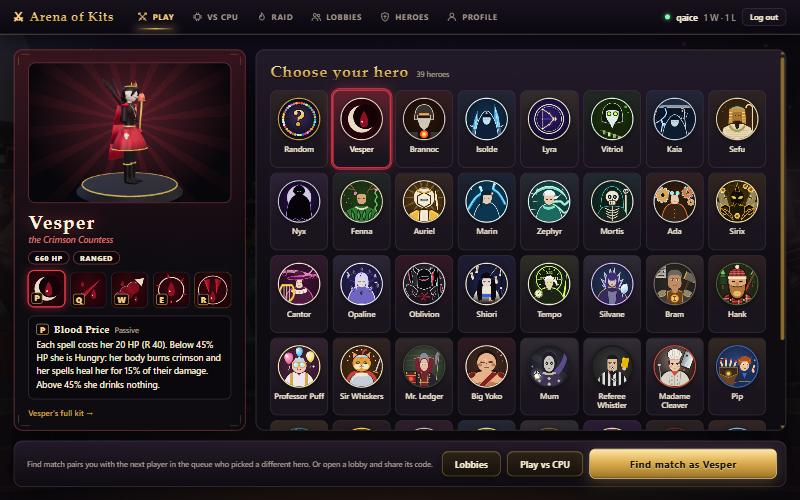
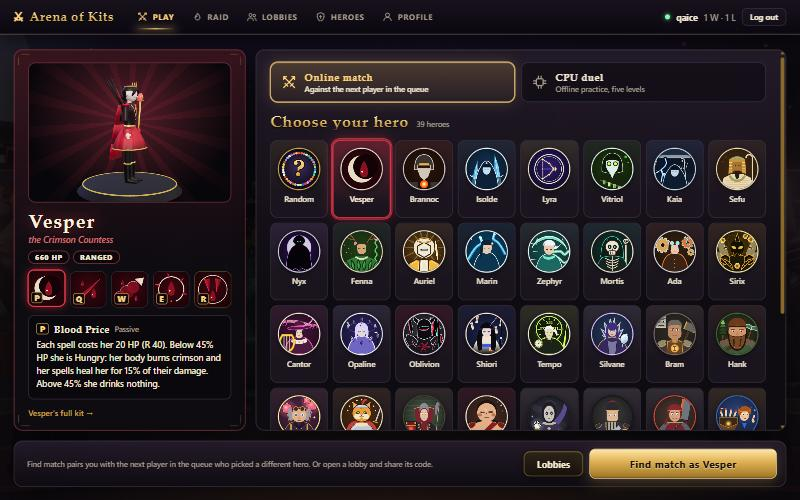
Play: the CPU duel is a mode of the Play screen
Two tabs over the roster, Online match and CPU duel. The CPU tab shows
the difficulty and the opponent over the hero grid and the bar's button
becomes Fight. The vs CPU tab leaves the header. Without an account the
same screen opens with only the CPU tab; the online tab leads to login.

diff --git a/src/game/main.ts b/src/game/main.ts
@@ -189,6 +189,12 @@ function render() {
   const kept = new Map<string, number>();
   if (state.screen === shownScreen) root.querySelectorAll<HTMLElement>('[data-keep-scroll]').forEach((e) => kept.set(e.dataset.keepScroll!, e.scrollTop));
   root.replaceChildren();
+  // With an account the CPU duel is a mode of the Play screen (a finished CPU fight comes back here as 'cpu').
+  if (state.profile && state.screen === 'cpu') {
+    state.screen = 'menu';
+    playMode = 'cpu';
+    safeSet('play.mode', 'cpu');
+  }
   // A screen that was not on show a moment ago comes in with a short rise (`.screen.enter`); a redraw does not.
   const fresh = state.screen !== shownScreen;
   if (fresh) {
@@ -201,7 +207,7 @@ function render() {
   // Without an account: the login screen, or the CPU or Raid screen (an offline fight needs no account).
   if (!state.profile) {
     if (state.screen !== 'cpu' && state.screen !== 'raid') { root.append(loginScreen()); return; }
-    root.append(header(), el('main', { class: `screen wide${fresh ? ' enter' : ''}` }, state.screen === 'cpu' ? cpuScreen() : raidScreen()));
+    root.append(header(), el('main', { class: `screen wide${fresh ? ' enter' : ''}` }, state.screen === 'cpu' ? menuScreen() : raidScreen()));
     keepScroll();
     return;
   }
@@ -213,9 +219,8 @@ function render() {
       : s === 'profile' ? profileScreen(state.profile)
         : s === 'lobbies' ? lobbiesScreen()
           : s === 'lobby' && state.lobby ? lobbyScreen(state.lobby)
-            : s === 'cpu' ? cpuScreen()
-              : s === 'raid' ? raidScreen()
-                : menuScreen(),
+            : s === 'raid' ? raidScreen()
+              : menuScreen(),
   );
   root.append(body);
   // The Play screen (also shown for a lobby that has closed) is wider, and shows the search in its own bar.
@@ -243,12 +248,12 @@ function header() {
   if (!p) {
     return el('header', { class: 'top' },
       el('div', { class: 'brand', onclick: () => go('login') }, el('span', { class: 'sigil' }, '⚔'), 'Arena of Kits'),
-      el('nav', {}, nav('vs CPU', 'cpu', 'cpu'), nav('Raid', 'raid', 'raid')),
+      el('nav', {}, nav('Play', 'cpu', 'play'), nav('Raid', 'raid', 'raid')),
       el('div', { class: 'who' }, el('button', { class: 'btn small', onclick: () => go('login') }, icon('login'), 'Log in')));
   }
   return el('header', { class: 'top' },
     el('div', { class: 'brand', onclick: () => go('menu') }, el('span', { class: 'sigil' }, '⚔'), 'Arena of Kits'),
-    el('nav', {}, nav('Play', 'menu', 'play'), nav('vs CPU', 'cpu', 'cpu'), nav('Raid', 'raid', 'raid'), nav('Lobbies', state.lobby ? 'lobby' : 'lobbies', 'lobbies'), nav('Heroes', 'heroes', 'heroes'), nav('Profile', 'profile', 'profile')),
+    el('nav', {}, nav('Play', 'menu', 'play'), nav('Raid', 'raid', 'raid'), nav('Lobbies', state.lobby ? 'lobby' : 'lobbies', 'lobbies'), nav('Heroes', 'heroes', 'heroes'), nav('Profile', 'profile', 'profile')),
     el('div', { class: 'who' },
       el('span', { class: `dot${state.connected ? ' on' : ''}`, title: state.connected ? 'connected' : 'offline' }),
       el('b', {}, p.name),
@@ -297,22 +302,46 @@ function heroStrip() {
 
 // --- menu / play ---------------------------------------------------------------------------------------------
 
+/** The Play screen's two ways to fight: a match against a player, or an offline duel against the computer. */
+type PlayMode = 'online' | 'cpu';
+let playMode: PlayMode = safeGet('play.mode') === 'cpu' ? 'cpu' : 'online';
+
 /**
  * Play: a hero select. The chosen hero on the left (its turning model, HP, melee or ranged, the passive and Q W E R),
- * the roster on the right, and one bar along the bottom with Find match, Lobbies and Play vs CPU (user, 2026-11-09:
- * "can u remade this so it will be better"). The record lives on the Profile screen and in the header.
+ * the choices on the right, and one bar along the bottom with the button that starts the fight (user, 2026-11-09:
+ * "can u remade this so it will be better"). Two modes share it, picked by the two big tabs over the roster: an online
+ * match, or a duel against the CPU with its level and opponent (user, 2026-11-10: "lets move the cpu page into play").
+ * Without an account only the CPU duel is open, and the online tab leads to the login.
  */
 function menuScreen() {
-  const choice = heroChoice(), hero = kitOf(choice);
+  const guest = !state.profile;
+  // A search or a lobby would take the scene over: while one is on, the online side is the one in use.
+  const busy = state.queue.on || !!state.lobby;
+  const mode: PlayMode = guest ? 'cpu' : busy ? 'online' : playMode;
+  const choice = cpuChoice(), hero = kitOf(choice);
   preview.show(hero?.model);
+  const tab = (m: PlayMode, ic: keyof typeof ICONS, title: string, sub: string) => el('button', {
+    class: `mode${mode === m ? ' on' : ''}`, disabled: m === 'cpu' && busy, title: m === 'cpu' && busy ? 'Leave the queue or your lobby first' : '',
+    onclick: () => {
+      if (m === 'online' && guest) return go('login');
+      if (m === mode) return;
+      playMode = m;
+      safeSet('play.mode', m);
+      render();
+    },
+  }, icon(ic), el('span', {}, el('b', {}, title), el('small', {}, sub)));
   return el('div', { class: 'hs' },
     heroShowcase(hero),
     el('section', { class: 'card hs-roster', 'data-keep-scroll': 'roster' },
+      el('div', { class: 'modes' },
+        tab('online', 'play', 'Online match', guest ? 'Log in to fight a real player' : 'Against the next player in the queue'),
+        tab('cpu', 'cpu', 'CPU duel', 'Offline practice, five levels')),
+      mode === 'cpu' ? cpuOptions(choice) : null,
       el('div', { class: 'hs-roster-head' }, el('h2', {}, 'Choose your hero'), el('span', { class: 'muted small' }, `${kits.length} heroes`)),
-      heroPicker(choice, [], (n) => { setPreferredHero(n); render(); }),
+      heroPicker(choice, [], (n) => { setCpuHero(n); render(); }),
       howToFight(),
     ),
-    playBar(hero),
+    mode === 'cpu' ? cpuBar(hero, choice) : playBar(hero),
   );
 }
 
@@ -370,7 +399,7 @@ function heroShowcase(hero: HeroKit | undefined) {
   return card;
 }
 
-/** Along the bottom of the Play screen: Lobbies, Play vs CPU and Find match, or the search while queued. */
+/** Along the bottom of the Play screen in its online mode: Lobbies and Find match, or the search while queued. */
 function playBar(hero: HeroKit | undefined) {
   const queued = state.queue.on;
   const find = queued
@@ -391,7 +420,6 @@ function playBar(hero: HeroKit | undefined) {
       ? 'You are in a lobby: go back to it, or leave it to search.'
       : 'Find match pairs you with the next player in the queue who picked a different hero. Or open a lobby and share its code.'),
     el('button', { class: 'btn', disabled: queued, onclick: () => go(state.lobby ? 'lobby' : 'lobbies') }, state.lobby ? 'Back to lobby' : 'Lobbies'),
-    el('button', { class: 'btn', disabled: queued || !!state.lobby, onclick: () => go('cpu') }, 'Play vs CPU'),
     find);
   if (queued) updateQueueText(bar);
   return bar;
@@ -513,13 +541,14 @@ function setCpuHero(name: string) {
   else safeSet('cpu.hero', name);
 }
 
-function cpuScreen() {
-  const choice = cpuChoice(), hero = kitOf(choice);
+/** The opponent picked for a CPU duel, or undefined for a random one (also when it is the player's own hero). */
+const cpuFoe = (choice: string) => (cpuPick.foe !== choice ? kitOf(cpuPick.foe) : undefined);
+
+/** The Play screen's CPU mode, over the roster: the five levels and the opponent. */
+function cpuOptions(choice: string) {
   const level = cpuLevel(cpuPick.level);
-  const foeKit = cpuPick.foe !== choice ? kitOf(cpuPick.foe) : undefined;
+  const foeKit = cpuFoe(choice);
   const won = cpuWon();
-  // A match from the queue or a lobby would take the scene over: those come first.
-  const busy = state.queue.on || !!state.lobby;
   const levels = el('div', { class: 'levels' }, ...CPU_LEVELS.map((l) => el('button', {
     class: `level lv-${l.id}${l.id === level.id ? ' on' : ''}`, title: l.blurb,
     onclick: () => { cpuPick.level = l.id; safeSet('cpu.level', String(l.id)); render(); },
@@ -530,31 +559,28 @@ function cpuScreen() {
   },
   el('option', { value: 'random', selected: !foeKit }, 'A random hero'),
   ...kits.filter((k) => k.name !== choice).map((k) => el('option', { value: k.name, selected: k === foeKit }, `${k.name}, ${k.title}`)));
-  preview.show(hero?.model);
-  // The same hero select as Play: the chosen hero on the left, the choices on the right, the fight button along the bottom.
-  return el('div', { class: 'hs' },
-    heroShowcase(hero),
-    el('section', { class: 'card hs-roster', 'data-keep-scroll': 'cpu' },
-      el('div', { class: 'hs-roster-head' }, el('h2', {}, 'Play vs CPU'), el('span', { class: 'muted small' }, 'Offline · a random arena · not on your record')),
-      el('h3', { class: 'gap' }, 'Difficulty'),
+  return el('div', { class: 'cpu-opts' },
+    el('div', {},
+      el('h3', {}, 'Difficulty'),
       levels,
-      el('p', { class: 'level-blurb' }, el('b', {}, `${level.name}: `), level.blurb),
+      el('p', { class: 'level-blurb muted small' }, el('b', {}, `${level.name}: `), level.blurb)),
+    el('div', {},
       el('h3', {}, 'Opponent'),
       el('div', { class: 'foe-row' }, foeKit ? portrait(foeKit, 'portrait sm') : randomPortrait('portrait sm'), foeSelect),
-      el('h3', { class: 'gap' }, 'Your hero'),
-      heroPicker(choice, [], (n) => { setCpuHero(n); render(); }),
-      howToFight(),
-    ),
-    el('div', { class: 'hs-bar' },
-      el('div', { class: `hs-note small ${busy ? 'error' : 'muted'}` }, busy
-        ? 'Leave the matchmaking queue or your lobby to fight the CPU.'
-        : `${hero ? hero.name : 'A random hero'} against ${foeKit ? foeKit.name : 'a random hero'}, best of three.`),
-      el('button', { class: 'btn', onclick: () => go(state.profile ? 'menu' : 'login') }, 'Back'),
-      el('button', {
-        class: 'btn primary big hs-find', disabled: busy,
-        onclick: () => void cpu.start({ hero: hero?.name ?? randomKit([foeKit?.name]).name, foe: foeKit?.name ?? 'random', level: level.id }),
-      }, `Fight ${foeKit ? foeKit.name : 'a random hero'} · ${level.name}`)),
-  );
+      el('p', { class: 'level-blurb muted small' }, 'One round in a random arena. It does not count on your record.')));
+}
+
+/** Along the bottom of the Play screen in its CPU mode: the fight button (and the way to the login without an account). */
+function cpuBar(hero: HeroKit | undefined, choice: string) {
+  const level = cpuLevel(cpuPick.level);
+  const foeKit = cpuFoe(choice);
+  return el('div', { class: 'hs-bar' },
+    el('div', { class: 'hs-note small muted' }, `${hero ? hero.name : 'A random hero'} against ${foeKit ? foeKit.name : 'a random hero'} on ${level.name}.`),
+    state.profile ? null : el('button', { class: 'btn', onclick: () => go('login') }, icon('login'), 'Log in'),
+    el('button', {
+      class: 'btn primary big hs-find',
+      onclick: () => void cpu.start({ hero: hero?.name ?? randomKit([foeKit?.name]).name, foe: foeKit?.name ?? 'random', level: level.id }),
+    }, `Fight ${foeKit ? foeKit.name : 'a random hero'} · ${level.name}`));
 }
 
 // --- raid ----------------------------------------------------------------------------------------------------

diff --git a/src/game/game.css b/src/game/game.css
@@ -399,10 +399,40 @@
 .level.on { border-color: var(--lv); background: linear-gradient(180deg, color-mix(in srgb, var(--lv) 26%, var(--panel-2)), var(--panel-2)); box-shadow: 0 0 0 1px var(--lv), 0 0 18px color-mix(in srgb, var(--lv) 35%, transparent); }
 .level .pips { font-size: 9px; letter-spacing: 1px; color: var(--lv); }
 .level .won { margin-left: 3px; color: var(--green); }
-.level-blurb { margin: 8px 0 14px; min-height: 2.9em; }
+.level-blurb { margin: 8px 0 0; min-height: 2.9em; }
 .ui h3.gap { margin-top: 18px; }
 .foe-row { display: flex; align-items: center; gap: 12px; margin-top: 8px; }
 .foe-select { flex: 1; max-width: 380px; min-width: 0; }
+/* The Play screen's two modes: two big tabs over the roster, the open one lit in gold. */
+.modes { display: grid; grid-template-columns: 1fr 1fr; gap: 10px; margin-bottom: 16px; }
+.mode {
+  display: flex; align-items: center; gap: 12px; padding: 12px 16px; border-radius: 12px; cursor: pointer; text-align: left;
+  border: 1px solid var(--line); color: var(--muted); background: rgba(8, 6, 10, 0.5); font: 500 12px var(--sans);
+  transition: border-color 0.15s, transform 0.15s var(--ease), box-shadow 0.15s, color 0.15s;
+}
+.mode .ic svg { width: 26px; height: 26px; }
+.mode span { display: flex; flex-direction: column; min-width: 0; }
+.mode b { font: 700 16px var(--display); letter-spacing: 0.05em; color: var(--text); }
+.mode small { font-size: 12px; }
+.mode:hover:not(:disabled):not(.on) { border-color: var(--line-gold); transform: translateY(-1px); color: var(--text); }
+.mode.on {
+  border-color: var(--gold-hi); color: var(--text);
+  background: linear-gradient(180deg, rgba(201, 162, 74, 0.24), rgba(201, 162, 74, 0.05));
+  box-shadow: 0 0 0 1px var(--gold-hi), 0 0 22px rgba(255, 210, 122, 0.2), inset 0 1px 0 rgba(255, 228, 170, 0.18);
+}
+.mode.on b, .mode.on .ic { color: var(--gold-hi); }
+.mode:disabled { opacity: 0.4; cursor: not-allowed; }
+/* the CPU mode's choices, side by side over the roster: the levels, the opponent */
+.cpu-opts { display: grid; grid-template-columns: minmax(0, 1.5fr) minmax(0, 1fr); gap: 6px 22px; margin-bottom: 14px; padding: 12px 14px 4px; border-radius: 12px; border: 1px solid var(--line); background: rgba(8, 6, 10, 0.4); }
+@media (max-width: 1100px) { .cpu-opts { grid-template-columns: minmax(0, 1fr); } }
+@media (max-width: 600px) {
+  .modes { gap: 8px; margin-bottom: 12px; }
+  .mode { padding: 9px 10px; gap: 8px; }
+  .mode b { font-size: 14px; }
+  .mode small { font-size: 10.5px; line-height: 1.25; }
+  .mode .ic svg { width: 22px; height: 22px; }
+  .cpu-opts { padding: 10px 10px 2px; }
+}
 .or { display: flex; align-items: center; gap: 10px; color: var(--muted); font-size: 11px; font-weight: 700; letter-spacing: 0.12em; text-transform: uppercase; margin: 2px 0; }
 .or::before, .or::after { content: ''; flex: 1; height: 1px; background: linear-gradient(90deg, transparent, var(--line-gold)); }
 .or::after { background: linear-gradient(90deg, var(--line-gold), transparent); }

diff --git a/docs/STATUS.md b/docs/STATUS.md
@@ -61,6 +61,7 @@ said "uncommitted" now name the commit that holds them.
 - **Ash's six pillars and his one-shot Charge, 2026-11-08, committed, pushed and live 2026-11-09 (`7438db2`)** (user: "6 pillars noticeable from others, a charge attack that targets the player, the player goes behind the pillar, the boss gets stunned and there is a window to damage him, if he hits you it's a one-shot, so kill him before all pillars are down"). On Ash, whose Charge already stopped at cover. **The pillars:** the Cinder Pit's only cover now, six at 7.5 m from the vent (`PILLARS` in `src/arenas/cinderpit.ts`, drawn in code by `src/arenas/cinderPillars.ts`): basalt with veins and a crown of pale blue sun-glass, a glass ring on the floor round each; a pip each in the boss bar, red with one left. The old spires, slag walls and anvil stones are gone. **The Charge:** first 6 s in, then every 12 s Ash is in the ring, before any other move (`BossMove.due`). 3.5 s wind-up: he turns after the one he fixed on and rakes the floor; a lane runs from him through you to the rim, the pillar that would stop him lights up blue, and the floor the pillars hide shows gold. Then he runs through where you are then (aimed at that moment, so stepping aside doesn't help) and kills whoever he reaches (`Threat.lethal`: past every shield; only Sealed and Stubborn save). A pillar in his way breaks (it topples away and shatters) and he is stunned 5 s (`RAID_REWARDS.ash.charge = { stun: 5 }`, a new reward that kneels without emptying the gauge; hub `raidStun`). With no pillars left every Charge kills. **The autopilot:** a warning zone (`Threat.warn`) it never ignores, a wider and finer search for a hidden spot, and it stays hidden until the run passes. **Measured** (39 heroes twice, tier 1): level 3 21/78 (27 %, was 22 %), level 4 27/78 (35 %, was 45 %); about 3 Charges blocked a fight and 2.8 pillars standing at the end; the autopilot hides from 93 % of Charges, and most it doesn't were from 10 m or more from any hidden spot once pillars had broken. **So the pillars run out only in long fights, around the enrage at 2:50:** Ash is in the ring about half a fight. To make them the main clock: fewer pillars, a faster Charge, or Ash charging from the rim too (a bigger change: the one on the rim can't be hit). **Checked:** type check, build, server test (new: the stun on both screens, the gauge kept), `_raidAsh` 76 (new Charge rows: the wind-up hurts nobody, in the open it kills, in front of a pillar it kills, behind one it doesn't and the pillar breaks, he stops against it and kneels, a broken pillar saves nobody, a shield doesn't help, a new fight stands all six up), `_raidCheck` 95, `_raidUpgrades` 37. Pictures: `docs/bosses/charge-1` to `charge-3`, `charge-phone`. **Not checked:** a person playing, a real phone, two players online (the second screen breaks the same pillar from the cast; tested only alone).
 - **Ash's pillars cut to four, 2026-11-09, committed, pushed and live 2026-11-09 (`7438db2`)** (user, given the choice after six outlasted most fights: "Fewer pillars (4)"). Four pillars on the diagonals at 7.5 m (where the old spires stood), four pips in the bar. **First try, same timing (3.5 s wind-up, every 12 s):** level 3 10/78 (13 %), level 4 14/78 (18 %), 107 of 132 losses to the Charge. The logged Charges showed why: with pillars 90 degrees apart a hero near the rim with Ash beside them can be 12-17 m from any hidden spot, and 11 of 12 such Charges killed. Unfair, not hard. **So:** the wind-up is 4.5 s at tier 1 (about 15 m of running for a person after a moment to see it) and the Charge comes every 14 s he is in the ring (still 5 s stunned, so his other moves keep a slot). **Measured** (39 heroes twice, tier 1): level 3 13/78 (17 %), level 4 21/78 (27 %); about 2.5 Charges blocked a fight and 1.5 pillars standing at the end (2.8 with six), so a slower fight does run out. Harder than six pillars (27 % and 35 %) and than before the pillars (22 % and 45 %). **Checked:** type check, `_raidAsh` 77 (new: four pillars; the positions now come from the first pillar), `_raidCheck` 95, `_raidUpgrades` 37. Pictures redone: `docs/bosses/charge-1` to `charge-3`, `charge-phone`. **Not checked:** a person playing, a real phone, two players online.
 - **The Play screen remade as a hero select, 2026-11-09, committed (`f1bf868`, `755ce08`), pushed and live 2026-11-09** (user, with a screenshot of the old screen at 1920x1032: "can u remade this so it will be better"). `src/game/main.ts` (`menuScreen`, `heroShowcase`, `playBar`, `howToFight`), `src/game/game.css` (`.hs-*`). **Left:** the chosen hero on the Heroes page's turning model (the big portrait for Random), name, title, HP and melee or ranged (Pim and Pom: both), the passive and Q W E R as icons; pointing at one or tapping it explains it (range, cooldown), and the slot stays open from hero to hero; a link opens the Heroes page with that hero's row just under the header (checked at 1920 and on the phone, where the header is 134 px). **Right:** the roster. **Bottom:** one bar with Lobbies, Play vs CPU and Find match; while searching, the search and Cancel sit in that bar (no second bar over it; on the phone it wraps to two lines inside the bar). "How to fight" folds away and no longer says every hero has 600 HP. The stat tiles left the Play screen (they are on Profile; W-L is in the header). **On a desktop** it fits the window (checked at 1920x1032, 1600x900 and 1280x720: no page scroll; at 1280x720 the roster scrolls inside itself and keeps its place when a hero is picked). **Stacked** under 860 px with the bar pinned to the bottom; **on a phone** (375x812, touch emulated) a compact card, so the first row of heroes shows above the bar; the explanation is cut to three lines and a tap shows the rest. **Shared:** the hero grid now has even tiles everywhere it is used (vs CPU, Raid, a lobby, a lost round's pick), checked on vs CPU, Raid (all 40 tiles one size) and a lobby; a lost round's pick was not opened. `HeroPreview` now resizes on a height change too. Type check and build pass; no console errors. Not checked: a real phone, a person using it.
+- **The CPU duel moved into Play, 2026-11-10, committed, not pushed, not deployed** (user: "lets move the cpu page into play somewhere ttry to figure something out"). The Play screen has two tabs over the roster, Online match and CPU duel (`playMode`, kept in `localStorage` as `play.mode`); the CPU tab shows difficulty and opponent over the hero grid (`cpuOptions`) and the bar's button becomes Fight (`cpuBar`). The vs CPU tab is gone from the header and `cpuScreen` is deleted; `state.screen === 'cpu'` still exists for a player without an account (the same screen, CPU tab only, the online tab leads to the login) and as where a finished CPU fight returns (with an account it is turned into Play in CPU mode in `render`). **Checked** in the browser: a real click on the CPU tab, level and opponent change the button ("Fight Kaia · Hard"), a fight started from it and Leave duel lands back on Play in CPU mode, the online mode's bar (Lobbies, Find match), the screen without an account, phone size (no overflow); type check and build. **Not checked:** the greyed CPU tab while a search or a lobby is on (read in the code only), a real phone.
 - **Interface restyle, part 1 (the menu screens), 2026-11-10, committed (`357bbfc`), not pushed, not deployed** (user: "restyle all interfaces we have make it look user friednly and exaiting"). Direction, before and after, and what is left: [ui-restyle.md](../pipeline/designs/ui-restyle.md). `src/game/game.css` is rewritten and `src/game/main.ts` changed: every menu screen on the darkened key art with embers rising; lacquer panels with a gold hairline and corner marks; gold display headings; buttons that lift, press and catch the light; a new screen rises in and the hero tiles deal in; tabs with icons. Login puts the two fights that need no account first. vs CPU and Raid use the Play screen's hero select (and get a small header without an account). On a phone the tabs sit along the bottom and the header is one line. No font file added (a display-serif stack). Sheets in `docs/ui/`. **Checked** in the browser at 1280 and at phone size (375): login, Play, vs CPU (also without an account), Raid, Lobbies, Heroes, Profile; no layout overflow; type check and build. **Not checked:** the motion itself (the browser pane was hidden, so animations stood still in the screenshots), a lobby with two players, the round pick panel, the loading page, a real phone. **Found on the way:** a Python rewrite of `game.css` left Vite serving an empty stylesheet (it read the file mid-write); `touch src/game/game.css` fixed it. **Part 2, not started:** the screens over a fight (hero panel, duel bar, result cards, touch controls, raid HUD and hall), about 80 inline styles in `src/heroMode.ts`, `src/duel.ts`, `src/touch.ts`, `src/raid/`; the shared engine files, so one writer at a time.
 - **IN PROGRESS, 2026-11-10: the other 16 restyles** (user: "Yes, all 16"). Three background workers, one batch each, write `blender/heroes/restyle_batch1.py` (Silvane, Bram, Hank, Professor Puff, Sir Whiskers), `restyle_batch2.py` (Mr. Ledger, Mum, Referee Whistler, Madame Cleaver, Gus) and `restyle_batch3.py` (Mabel, Grandma Ironknit, Bo, Zambini, Wick, Pim and Pom); each also redraws its heroes' portraits and titles in `src/kits/<theme>.ts` and updates `docs/catalog/heroes/<theme>.md`. Their brief is the six rules and the table in [heroes-restyle.md](../pipeline/designs/heroes-restyle.md). Tooling (`37dd0a4`): export without the Blender window with `"D:/blender/blender.exe" --background <any .blend> --python blender/heroes/export_cli.py -- <theme>_v3`; look at models on `http://localhost:5175/pipeline/tools/hero-sheet.html` (launch entry `sheet-dev`, no hot reload). **Left for the main session after the workers report:** review every sheet, switch `MODELS` in `src/heroes.ts` and the two `model:` lines in `src/kits/twins.ts` to `_v3`, re-check `HERO_BODIES`, update the heroes README, `hero-mode.md` and `effects.md` titles, a 39-hero lineup after, fights, type check, build, commit. If a session ends mid-way: uncommitted worker files are in the working tree; a hero is done when its `_v3.glb`, portrait, title and catalog page all exist.
 - **The new heroes restyled to the game's look: three pilots, 2026-11-09, committed (`fac86ba`), not pushed, not deployed** (user, after a sheet of all 39: "the new batch of herous are too funky", then "kinda no in the style of the game let's revise it deppply"). Why they read as another game, the rules and a re-concept for all 19: [heroes-restyle.md](../pipeline/designs/heroes-restyle.md) (the art bible's "mythic and elegant, never cartoon-goofy"; the 19 were modern-job jokes in bright plastic colours). **Built as `_v3` beside the `_v2` models and used in the game:** Barry as the Sky Augur (a storm-slate coat, a cloud mantle, a weathervane staff with a glowing orb), Big Yoko as the Mountain (the same giant dressed like a grand champion: rope belt, paper charms, crimson stole, apron with a glowing crest, plates and guards), Pip as the Wingfoot (capelet, winged circlet and heels, a pack of sealed scrolls with a glowing seal). Classes `WeatherMythic`, `SumoMythic`, `CourierMythic` in `blender/heroes/moba_figures.py`; `export("<theme>_v3")` writes `<theme>_v3.glb`. Their canvas portraits are redrawn and their titles follow the look (names kept); catalog pages, the heroes README, `hero-mode.md` and `effects.md` follow. `HERO_BODIES`: radii kept (same bodies), Barry's height 3.06 for the staff, Pip's 2.36. Sheets: `docs/heroes/lineup_39_before.jpg` (all 39 before), `docs/heroes/restyle_pilots_sheet.jpg` (old and new). **Checked:** front and game-camera renders, AI fights with the camera close (Barry against Pip, Big Yoko against Sefu) with walk, casts and arms following, a vs CPU fight on the game page, no console errors, type check and build. **Not checked:** a person playing, a phone, online. **Next:** the other 16 wait on the user, with two questions in the design note: restyle the kit effects that stay cartoon (comic words, smiling clouds, the FRAGILE parcel), and rename the goofy names.

diff --git a/docs/architecture/multiplayer.md b/docs/architecture/multiplayer.md
@@ -121,12 +121,15 @@ as they are; an answer ends the wait, but the break still lasts its 3 s.
 
 ## Play vs CPU (offline)
 
-The Play card's **Play vs CPU** and the login screen's **Play vs CPU · no account needed** open the CPU screen: five
-difficulty buttons (Novice to Master, [cpuLevels.ts](../../src/cpuLevels.ts); a tick on each level already beaten),
-the hero picker, an opponent select (a random hero by default, never your own) and **Fight**. Every hero picker starts with a **Random** tile: on the Play card and the CPU screen it stays chosen and is drawn when the match or fight starts, so a Rematch keeps the hero drawn; in a lobby it is drawn at once, so the other player sees the hero. The fight is the
+The CPU duel is a mode of the Play screen (since 2026-11-10; it was a screen of its own): two tabs over the roster,
+**Online match** and **CPU duel**. The CPU mode shows five difficulty buttons (Novice to Master,
+[cpuLevels.ts](../../src/cpuLevels.ts); a tick on each level already beaten) and an opponent select (a random hero by
+default, never your own) over the hero picker, and the bar's button becomes **Fight**. The login screen's **Duel the
+CPU** opens the same screen without an account (`state.screen === 'cpu'`): only the CPU mode is open there, and the
+online tab leads to the login. The mode is kept in `localStorage` (`play.mode`). Every hero picker starts with a **Random** tile: on the Play card and the CPU screen it stays chosen and is drawn when the match or fight starts, so a Rematch keeps the hero drawn; in a lobby it is drawn at once, so the other player sees the hero. The fight is the
 offline AI duel (`CpuMatch` in `src/game/cpu.ts`, `duel.start('play')` at `duel.cpuLevel`) in a random arena: no
 server messages, nothing on the profile. One round; the card's Rematch keeps hero, opponent choice and level, and
-its Leave duel (or the Leave button during the fight) returns to the CPU screen. The choices and the beaten levels
+its Leave duel (or the Leave button during the fight) returns to the Play screen in its CPU mode. The choices and the beaten levels
 live in this browser's `localStorage` (`cpu.level`, `cpu.foe`, `cpu.hero` without an account,
 `cpu.won.<account or guest>`). Fight is disabled while the player is queued or in a lobby, since a `match_start`
 would take the scene over.

diff --git a/pipeline/designs/ui-restyle.md b/pipeline/designs/ui-restyle.md
@@ -37,14 +37,18 @@ licence) would make headings the same on every device; that needs a download, so
 
 - **Login:** the two fights that need no account come first, as two big doors ("Duel the CPU", "Raid the bosses"), then
   "or play online" and the form. The roster drifts by under the panel. A phone no longer opens its keyboard at once.
-- **vs CPU and Raid:** the same hero select as Play (the turning model and the kit on the left, the choices on the right,
-  the fight button along the bottom), instead of one long card. Without an account they get a small header with the two
-  screens and a Log in button. Difficulty buttons run from green to red.
+- **The CPU duel is part of Play** (user, 2026-11-10: "lets move the cpu page into play somewhere"). Two big tabs over the
+  roster, **Online match** and **CPU duel**. The CPU tab shows the difficulty (green to red) and the opponent over the
+  hero grid, and the bar's button becomes "Fight Kaia · Hard". The header has one tab fewer (Play, Raid, Lobbies, Heroes,
+  Profile). Without an account the same screen opens with only the CPU tab usable; the online tab leads to the login.
+  While a search or a lobby is on, the CPU tab is greyed out.
+- **Raid:** the same hero select as Play (the turning model and the kit on the left, the choices on the right, the
+  start button along the bottom), instead of one long card.
 - **Lobbies:** an empty list says what to do next. **Profile, Heroes:** the new panels, tables and tiles.
 - **Loading, the round pick, the toast:** the same fonts and glow.
 
-Files: `src/game/game.css` (rewritten), `src/game/main.ts` (`icon`, `header`, `loginScreen`, `heroStrip`, `cpuScreen`,
-`raidScreen`, the `enter` class in `render`). Sheets: `docs/ui/before_*.jpg`, `docs/ui/after_*.jpg`.
+Files: `src/game/game.css` (rewritten), `src/game/main.ts` (`icon`, `header`, `loginScreen`, `heroStrip`, `menuScreen` with
+`cpuOptions` and `cpuBar`, `raidScreen`, the `enter` class in `render`). Sheets: `docs/ui/before_*.jpg`, `docs/ui/after_*.jpg`.
 
 ## Part 2, not built: the screens over a fight
 
